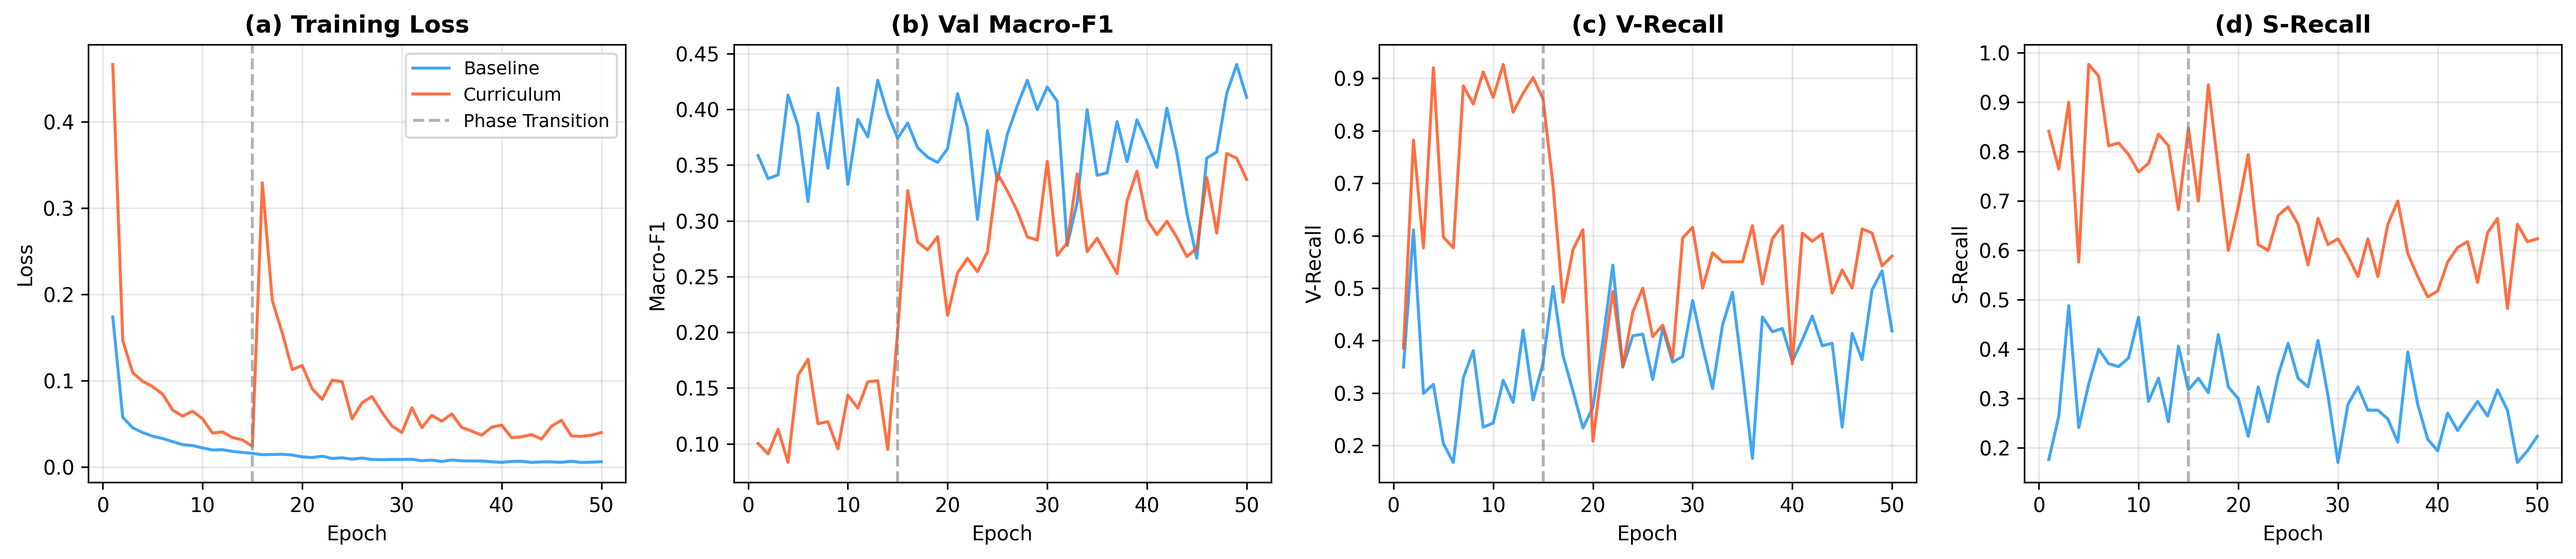
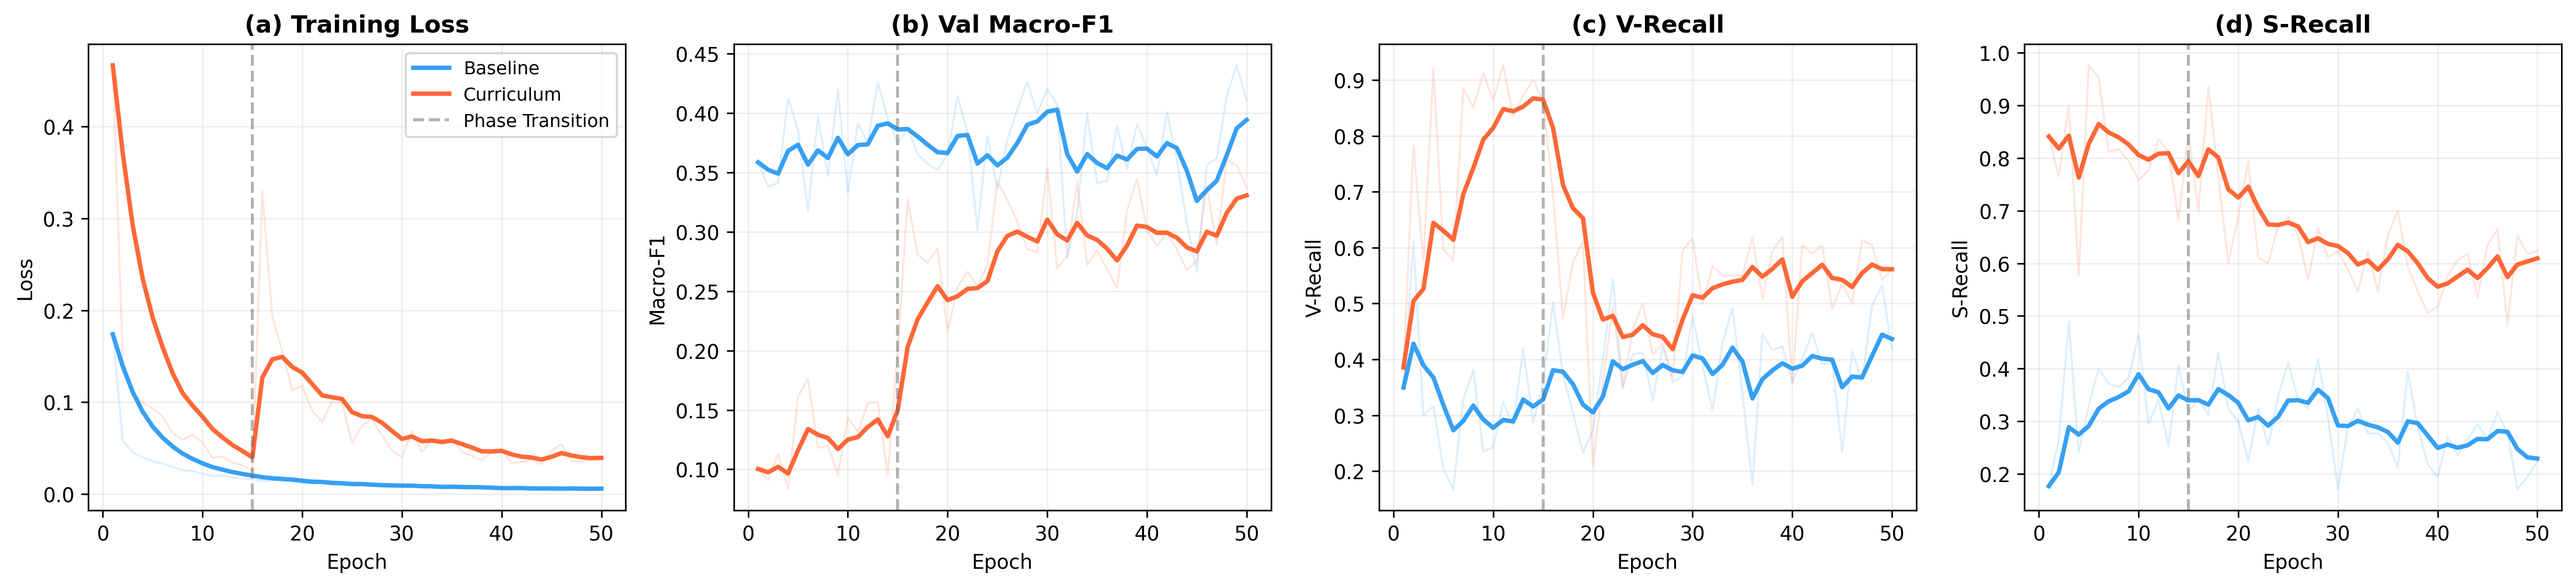
Apply EMA smoothing to convergence figure for publication quality

diff --git a/plot_smooth_convergence.py b/plot_smooth_convergence.py
@@ -1,0 +1,57 @@
+"""
+Re-plot convergence curves with EMA smoothing over real training data.
+Raw curves shown as faded background; smoothed curves in bold foreground.
+"""
+import json
+import numpy as np
+import matplotlib.pyplot as plt
+
+def ema(data, alpha=0.3):
+    """Exponential moving average smoothing."""
+    smoothed = [data[0]]
+    for val in data[1:]:
+        smoothed.append(alpha * val + (1 - alpha) * smoothed[-1])
+    return smoothed
+
+with open('results/convergence_history.json') as f:
+    hist = json.load(f)
+
+baseline = hist['baseline']
+curriculum = hist['curriculum']
+epochs = np.arange(1, 51)
+phase_transition = 15
+
+fig, axes = plt.subplots(1, 4, figsize=(18, 4.2))
+
+panels = [
+    ('(a) Training Loss', 'loss', 'Loss'),
+    ('(b) Val Macro-F1', 'f1_macro', 'Macro-F1'),
+    ('(c) V-Recall', 'v_recall', 'V-Recall'),
+    ('(d) S-Recall', 's_recall', 'S-Recall'),
+]
+
+for ax, (title, key, ylabel) in zip(axes, panels):
+    # Raw curves (faded)
+    ax.plot(epochs, baseline[key], color='#2196F3', alpha=0.15, linewidth=1)
+    ax.plot(epochs, curriculum[key], color='#FF5722', alpha=0.15, linewidth=1)
+    
+    # Smoothed curves (bold)
+    ax.plot(epochs, ema(baseline[key]), color='#2196F3', alpha=0.9,
+            label='Baseline', linewidth=2.2)
+    ax.plot(epochs, ema(curriculum[key]), color='#FF5722', alpha=0.9,
+            label='Curriculum', linewidth=2.2)
+    
+    # Phase transition line
+    ax.axvline(x=phase_transition, color='#666666', linestyle='--', alpha=0.5,
+               label='Phase Transition' if key == 'loss' else '')
+    
+    ax.set_title(title, fontsize=12, fontweight='bold')
+    ax.set_xlabel('Epoch', fontsize=10)
+    ax.set_ylabel(ylabel, fontsize=10)
+    ax.grid(True, alpha=0.2)
+    if key == 'loss':
+        ax.legend(fontsize=9, loc='upper right')
+
+plt.tight_layout()
+plt.savefig('fig_convergence_curves.png', dpi=300, bbox_inches='tight')
+print("✅ Smoothed figure saved to fig_convergence_curves.png")
